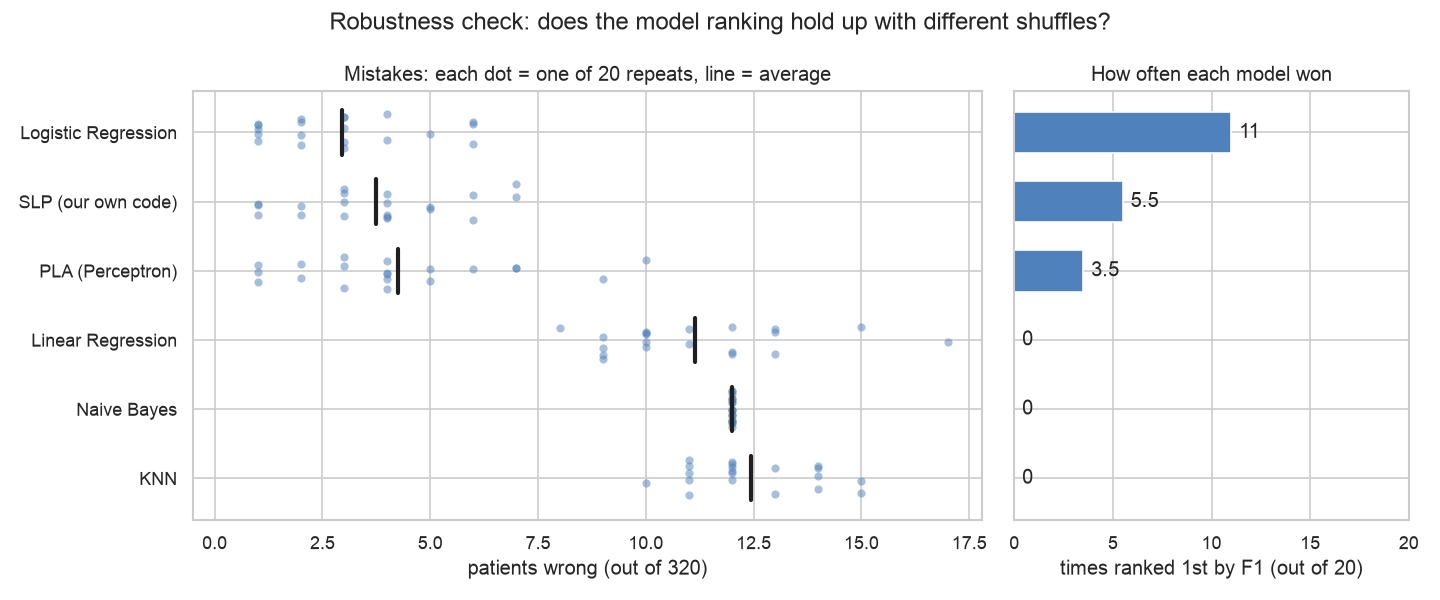
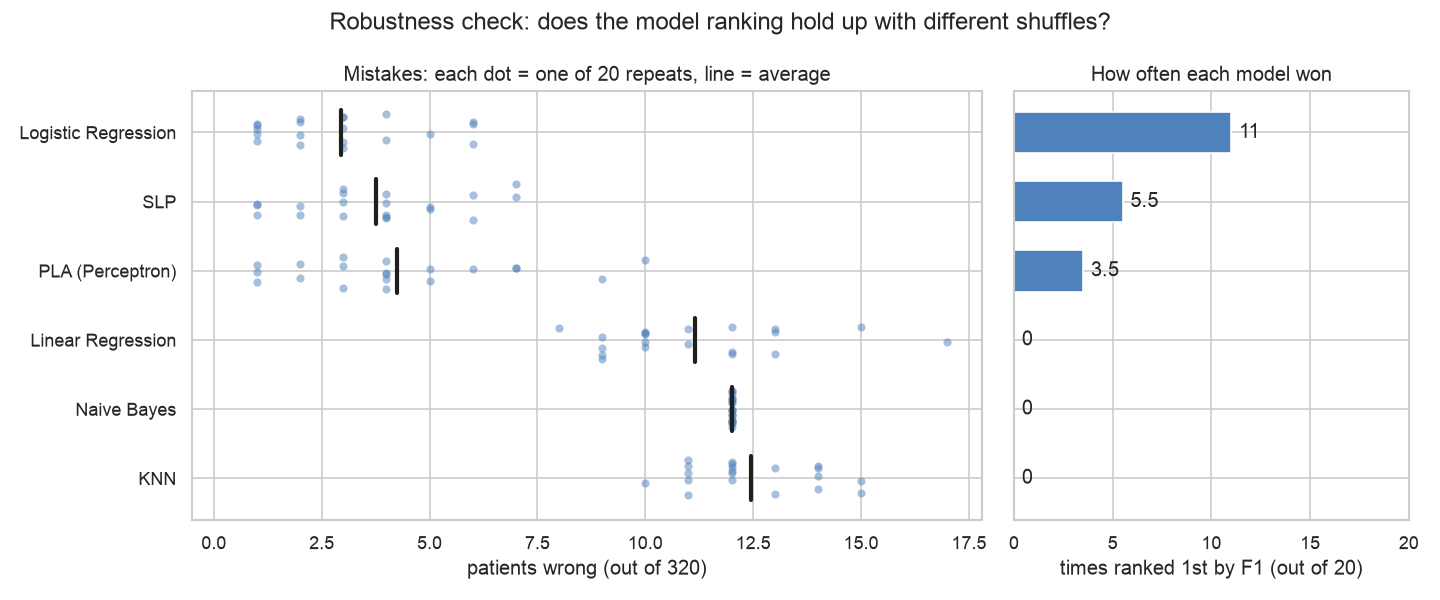
Rename SLP model label across docs, code and figures
The single-layer perceptron is now labelled simply "SLP" in the ML
scripts, the README and the website. The three charts that show the
label were redrawn and copied into the frontend; all scores are
unchanged.

diff --git a/frontend/src/lib/evidence.ts b/frontend/src/lib/evidence.ts
@@ -20,7 +20,7 @@ export type Candidate = {
 /** Part 1, best first. */
 export const CANDIDATES: Candidate[] = [
   { name: "Logistic Regression", avgWrong: 2.95, fewest: 1, most: 6, wins: 11, examWrong: 1, givesPercent: true, verdict: "Chosen" },
-  { name: "SLP (our own code)", avgWrong: 3.75, fewest: 1, most: 7, wins: 5.5, examWrong: 3, givesPercent: false, verdict: "Runner-up" },
+  { name: "SLP", avgWrong: 3.75, fewest: 1, most: 7, wins: 5.5, examWrong: 3, givesPercent: false, verdict: "Runner-up" },
   { name: "PLA (Perceptron)", avgWrong: 4.25, fewest: 1, most: 10, wins: 3.5, examWrong: 0, givesPercent: false, verdict: "Yes / no only" },
   { name: "Linear Regression", avgWrong: 11.15, fewest: 8, most: 17, wins: 0, examWrong: 5, givesPercent: false, verdict: "Wrong tool" },
   { name: "Naive Bayes", avgWrong: 12, fewest: 12, most: 12, wins: 0, examWrong: 2, givesPercent: true, verdict: "More mistakes" },

diff --git a/frontend/src/app/method/page.tsx b/frontend/src/app/method/page.tsx
@@ -152,7 +152,7 @@ export default function Method() {
           </article>
           <div className="grid gap-4 md:grid-cols-2">
             <Rejected
-              name="SLP (our own code)"
+              name="SLP"
               verdict="Runner-up"
               does="Our own perceptron from the AND-gate lab: the same weighted sum, but with a step instead of the S-curve, so the answer is only yes or no."
               evidence="3.75 wrong on average · won 5.5 of 20 · no %"

diff --git a/ml/future_ckd.py b/ml/future_ckd.py
@@ -229,7 +229,7 @@ def main():
           .round(3).to_string(index=False))
 
     # the perceptron can't separate these patients with a straight line (unlike Part 1)
-    slp = make_pipeline(get_models()["SLP (our own code)"][0], True).fit(X_train, y_train)
+    slp = make_pipeline(get_models()["SLP"][0], True).fit(X_train, y_train)
     errs = slp.named_steps["model"].errors_
     print(f"\nSLP mistakes in its last 5 of {len(errs)} epochs: {errs[-5:]} -> "
           + ("reached 0: linearly separable" if errs[-1] == 0

diff --git a/ml/course_models.py b/ml/course_models.py
@@ -123,7 +123,7 @@ def main():
     print(show.to_string())
 
     # facts worth quoting in the viva
-    slp = fitted["SLP (our own code)"].named_steps["model"]
+    slp = fitted["SLP"].named_steps["model"]
     print(f"\nSLP on the {n_train} training patients: mistakes per epoch {slp.errors_} "
           f"-> {'converged to 0 errors: the data is linearly separable, like the AND gate'
                 if slp.errors_[-1] == 0 else 'did not reach 0 errors (not linearly separable)'}.")

diff --git a/ml/train.py b/ml/train.py
@@ -70,7 +70,7 @@ def get_models():
         "PLA (Perceptron)": (
             Perceptron(random_state=RANDOM_STATE), True,
             {"model__eta0": [0.1, 1.0], "model__penalty": [None, "l2"]}),
-        "SLP (our own code)": (
+        "SLP": (
             SingleLayerPerceptron(random_state=RANDOM_STATE), True,
             {"model__epochs": [10, 50, 100]}),
         "Linear Regression": (

diff --git a/README.md b/README.md
@@ -186,7 +186,7 @@ Course classifiers - 5-fold CV repeated 20 times on the 320 training patients
 | Algorithm | Gives a %? | CV accuracy | CV recall | CV wrong (of 320) | Ranked 1st (of 20) | Test: missed CKD | Test: false alarms |
 |---|---|---|---|---|---|---|---|
 | **Logistic Regression** | yes | 0.991 ± 0.015 | 0.992 | 3.0 | 11 | 1 | 0 |
-| SLP (our own code) | no | 0.988 ± 0.015 | 0.986 | 3.8 | 5.5 | 2 | 1 |
+| SLP | no | 0.988 ± 0.015 | 0.986 | 3.8 | 5.5 | 2 | 1 |
 | PLA (Perceptron) | no | 0.987 ± 0.017 | 0.984 | 4.2 | 3.5 | 0 | 0 |
 | Linear Regression | no | 0.965 ± 0.022 | 0.946 | 11.2 | 0 | 5 | 0 |
 | Naive Bayes | yes | 0.962 ± 0.019 | 0.940 | 12.0 | 0 | 2 | 0 |
@@ -247,7 +247,7 @@ app's **Part 2 · Future risk** page.
 | Linear Regression | 0.838 | 0.136 | 0.592 | 0.891 |
 | Naive Bayes | 0.828 | 0.682 | 0.324 | 0.798 |
 | KNN | 0.775 | 0.089 | 0.229 | 0.869 |
-| SLP (our own code) | 0.756 | 0.298 | 0.268 | 0.833 |
+| SLP | 0.756 | 0.298 | 0.268 | 0.833 |
 | PLA (Perceptron) | 0.720 | 0.269 | 0.243 | 0.847 |
 | Always "no CKD" (baseline) | 0.500 | 0.000 | 0.000 | 0.885 |
 
